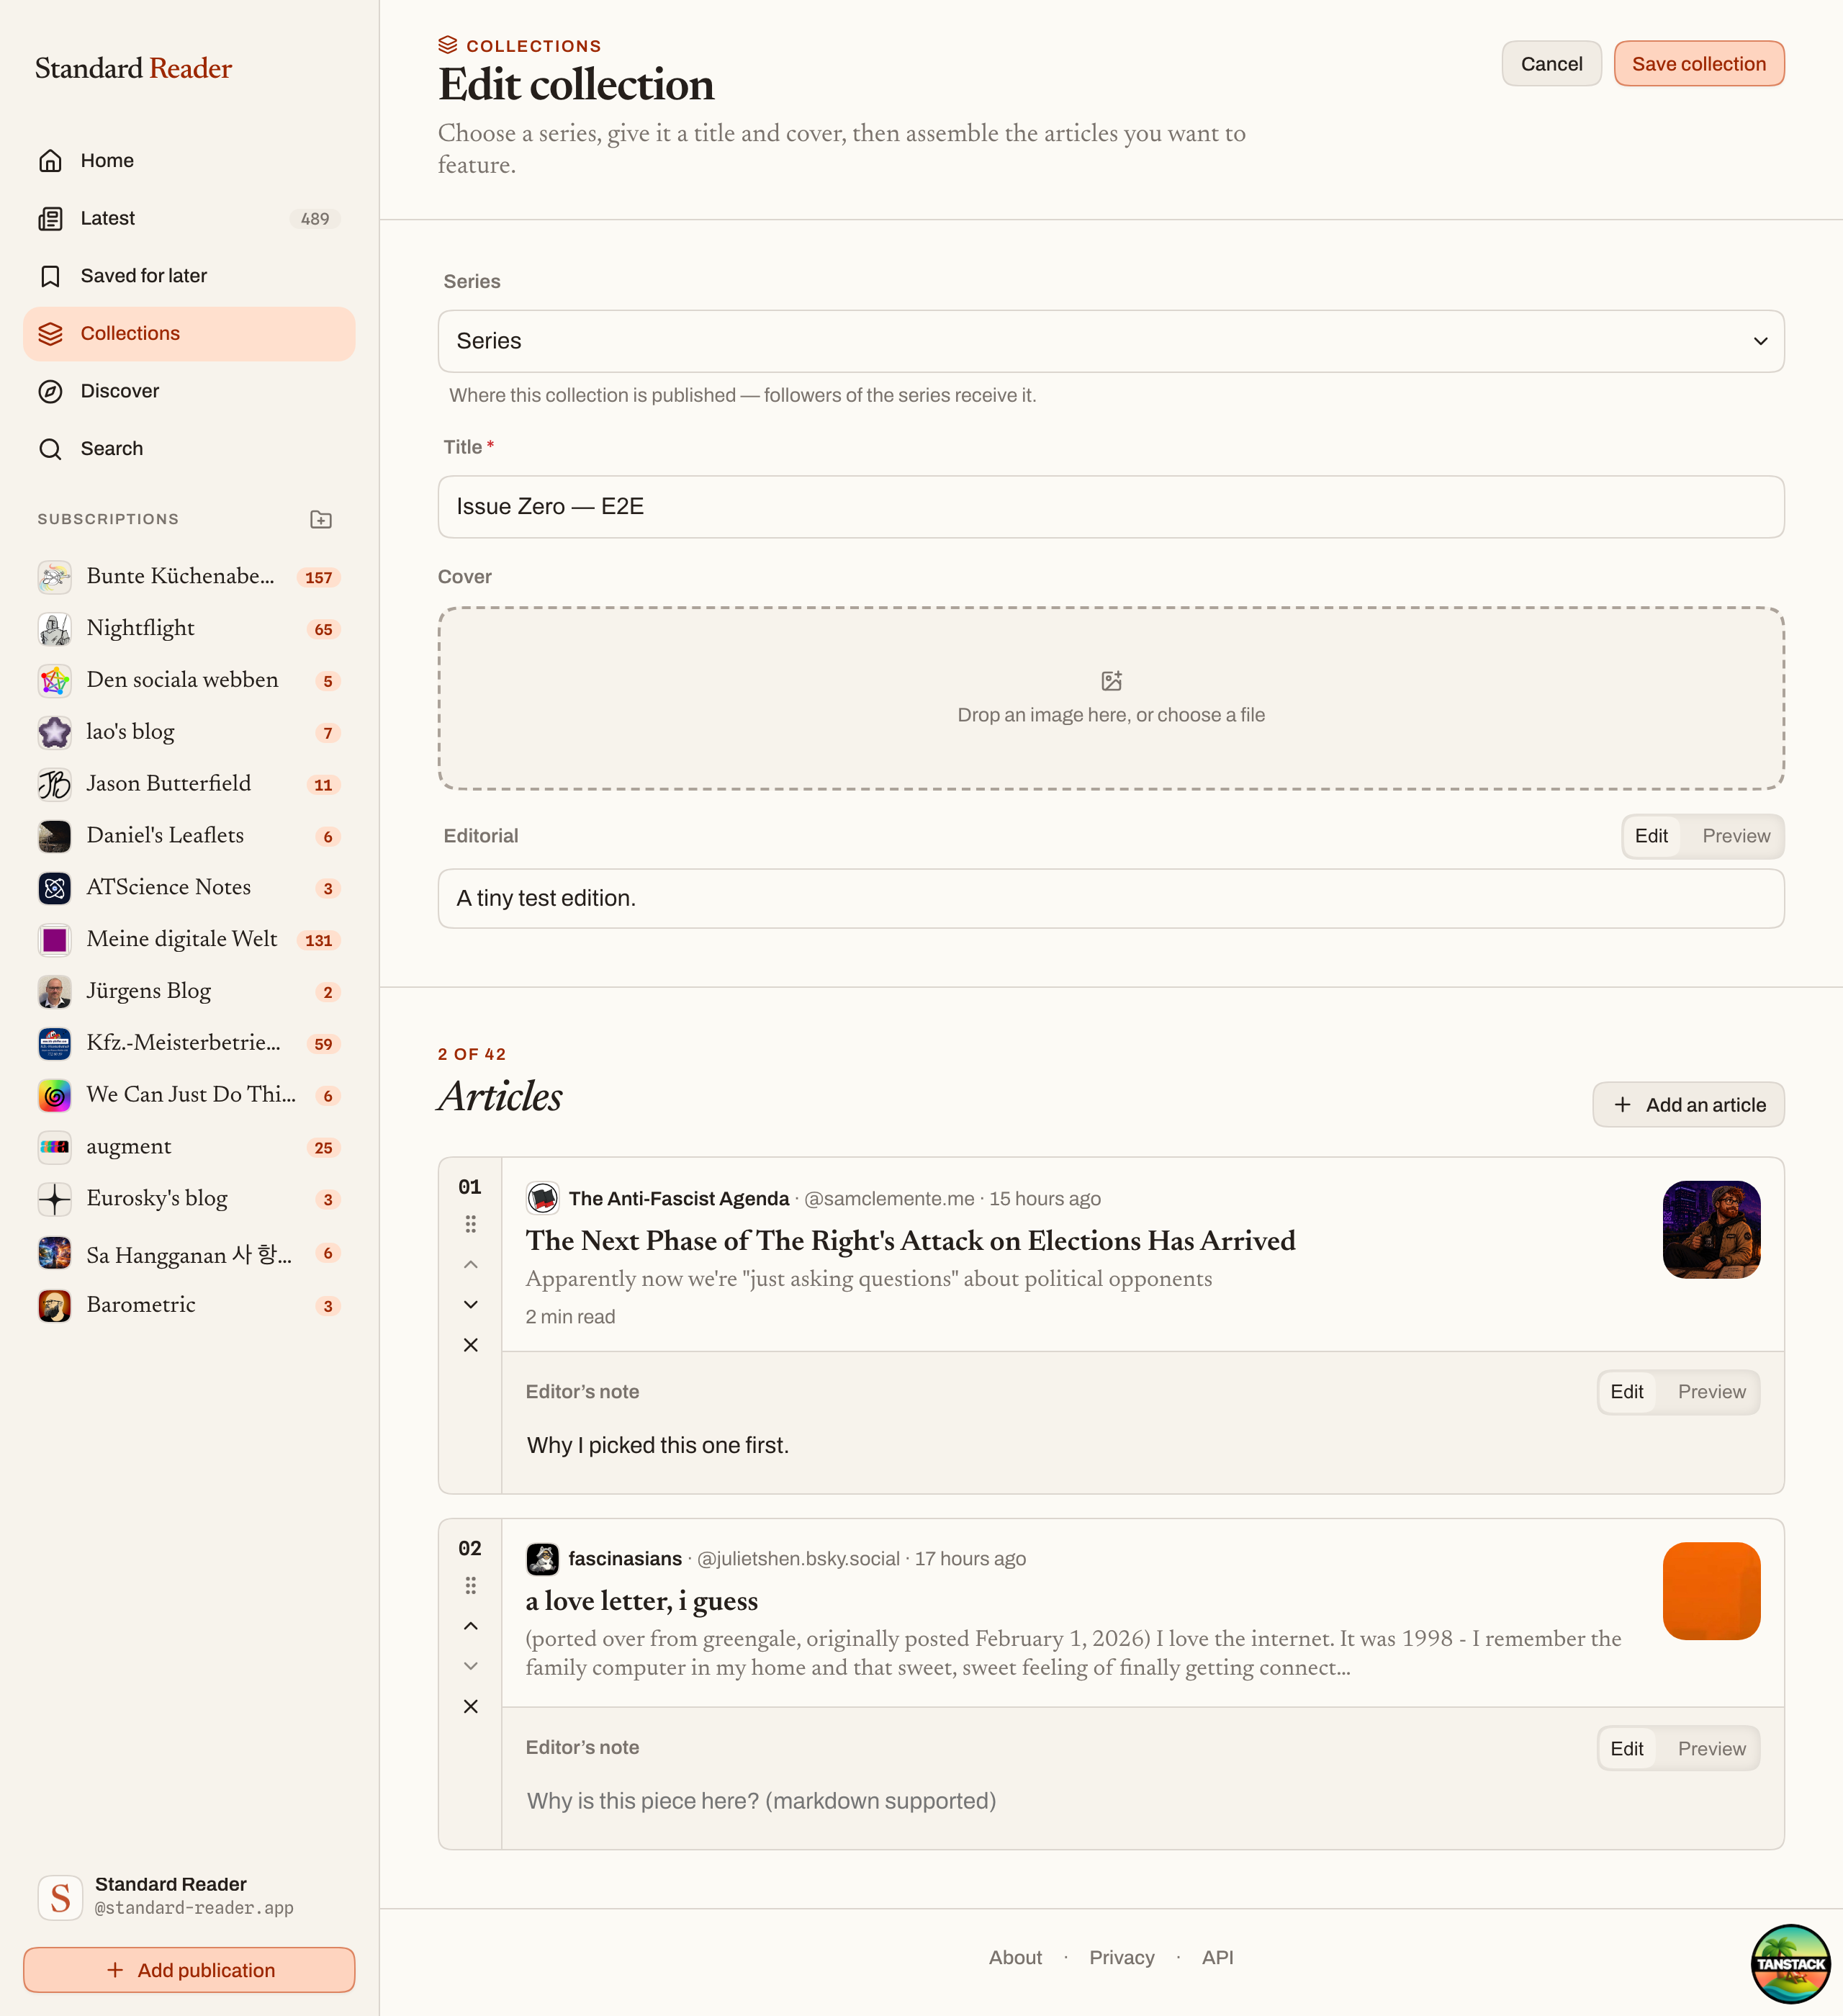
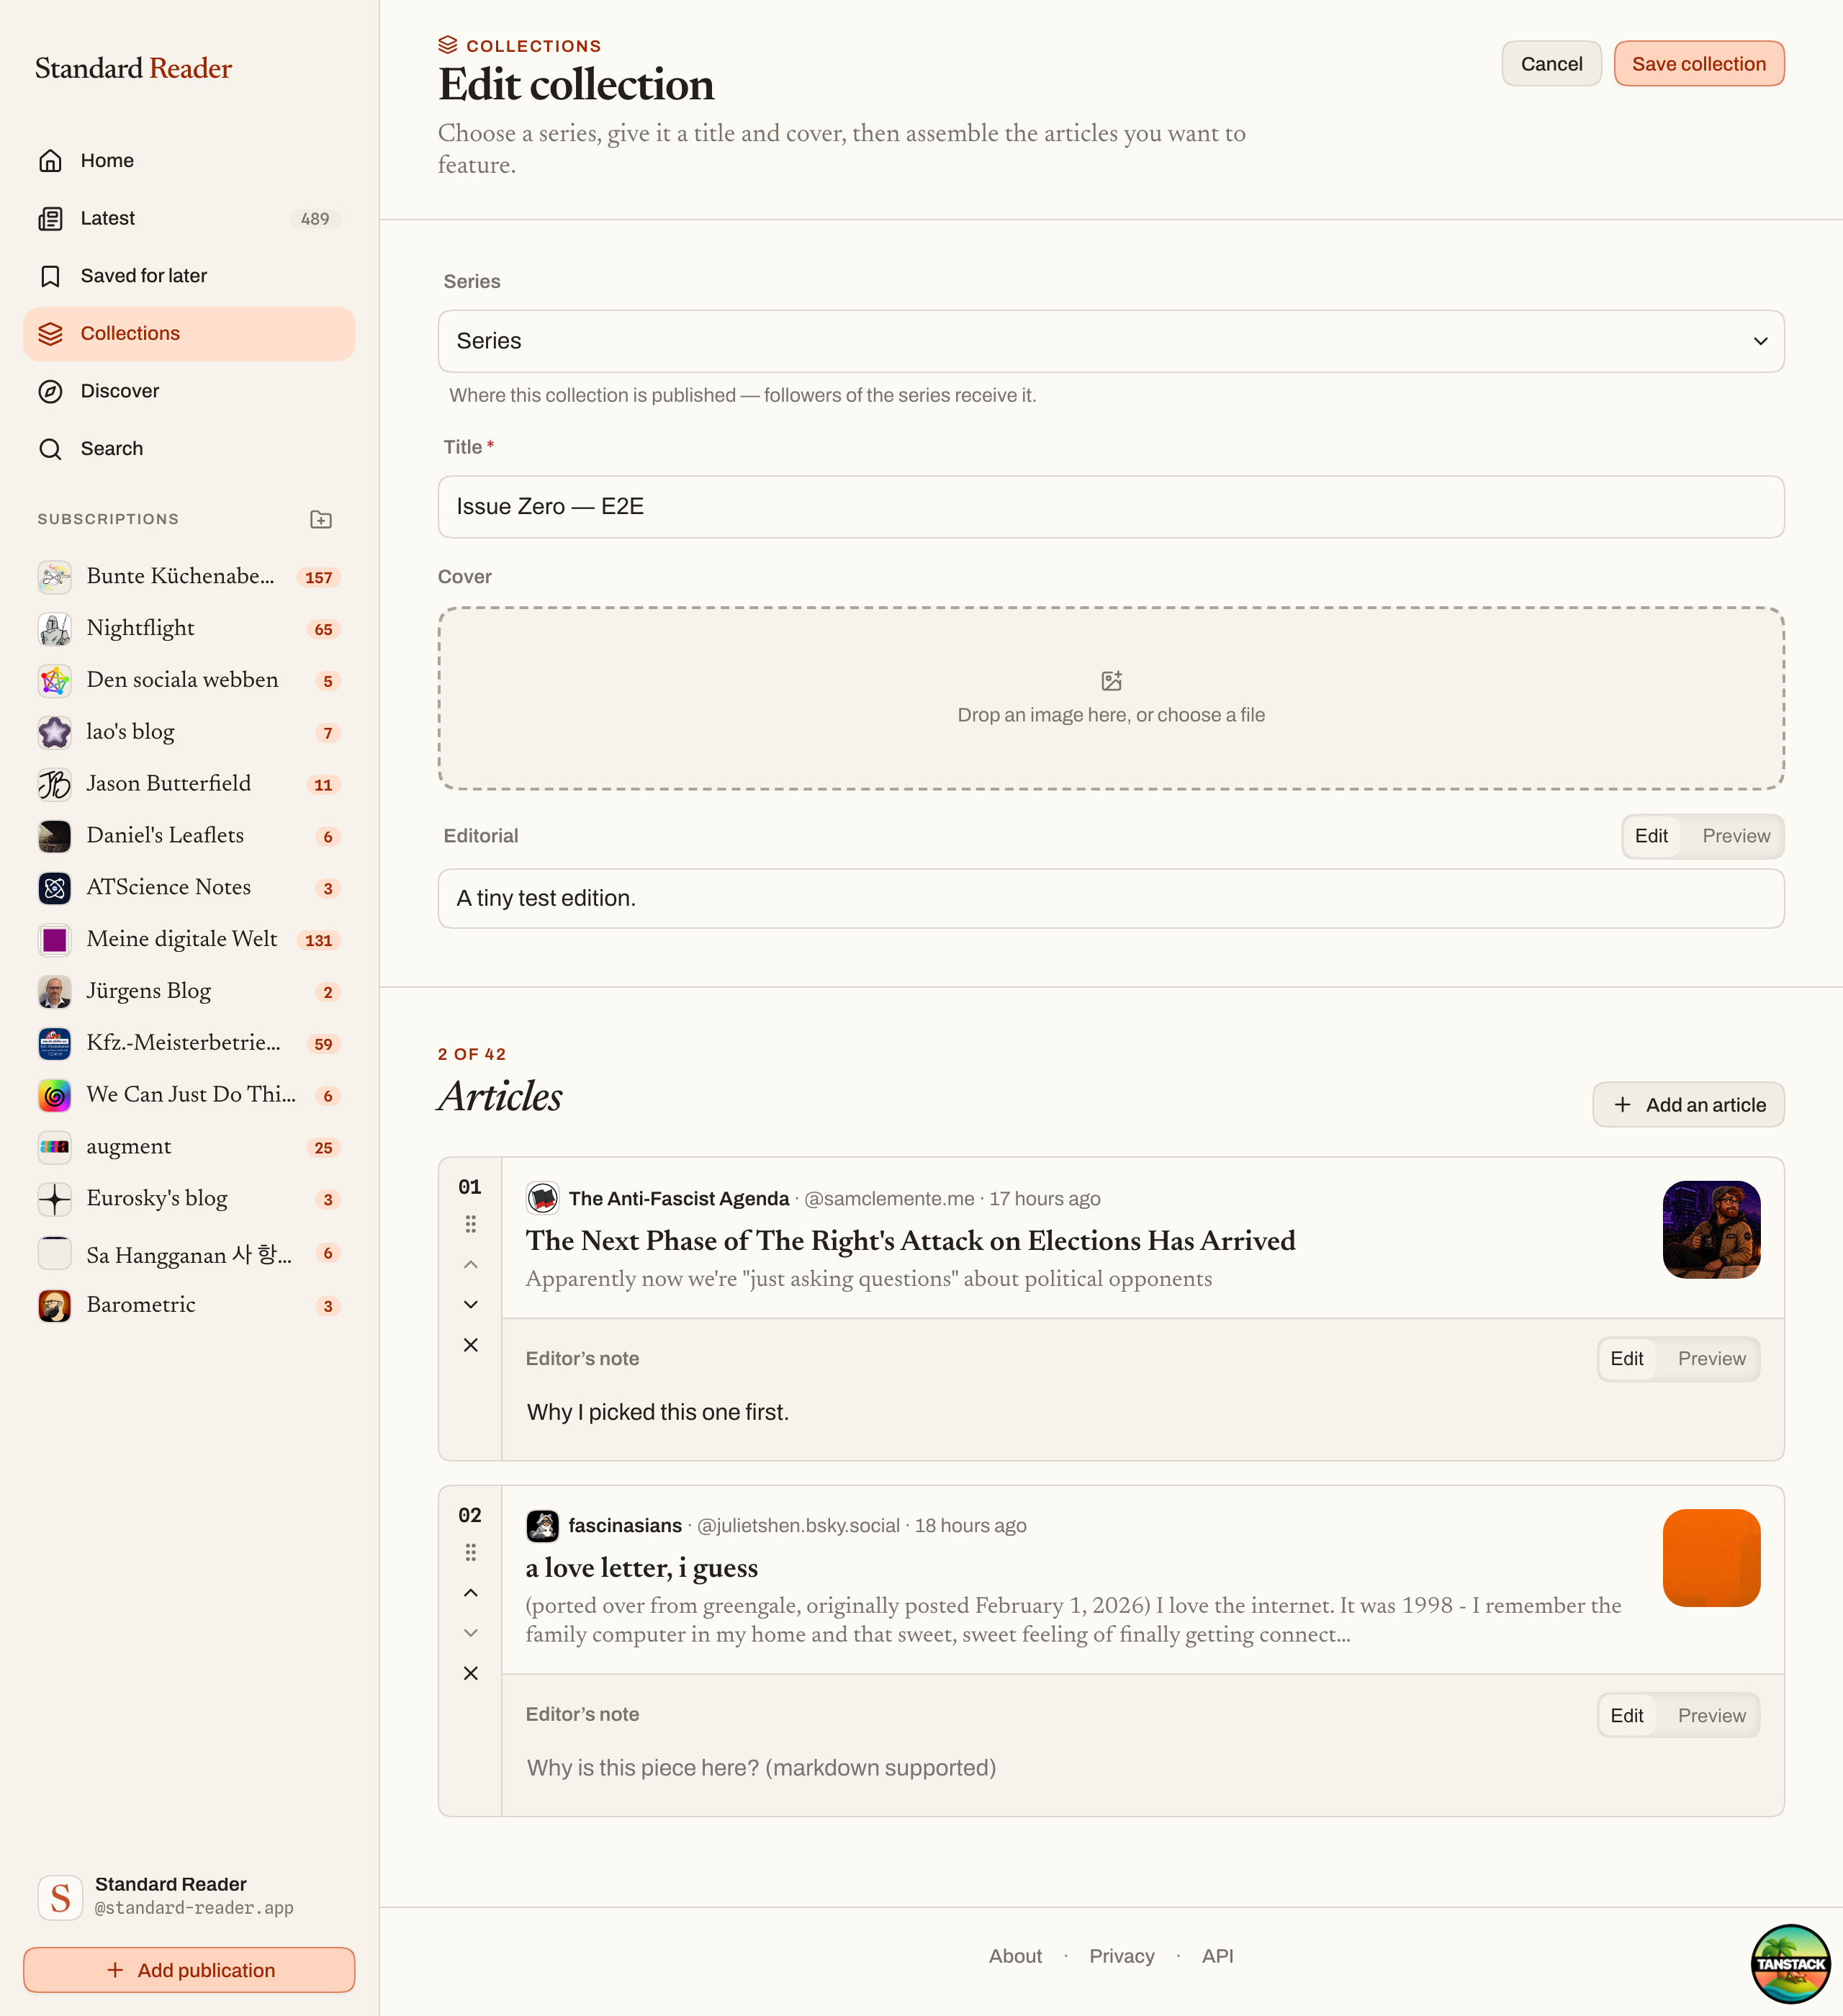
perf improvements

diff --git a/perf/lib/targets.ts b/perf/lib/targets.ts
@@ -140,7 +140,9 @@ function sharedTargets(auth: PerfAuthMode): Array<PerfTarget> {
 
 /** Signed-in-only routes (no guest counterpart). */
 function signedInOnlyTargets(): Array<PerfTarget> {
-  return [
+  const fixtures = loadPerfFixtures();
+
+  const targets = [
     perfTarget({
       id: "saved",
       name: "Saved for later",
@@ -162,7 +164,29 @@ function signedInOnlyTargets(): Array<PerfTarget> {
       auth: "signed-in",
       budgetMs: 5000,
     }),
+    perfTarget({
+      id: "collections",
+      name: "Collections",
+      path: "/collections",
+      auth: "signed-in",
+      budgetMs: 5000,
+    }),
   ];
+
+  if (fixtures.collectionEditPath) {
+    targets.push(
+      perfTarget({
+        id: "collections.edit",
+        name: "Collection editor",
+        path: fixtures.collectionEditPath,
+        auth: "signed-in",
+        budgetMs: 5000,
+        required: false,
+      }),
+    );
+  }
+
+  return targets;
 }
 
 /** Guest-visible routes — always run in CI. */

diff --git a/src/server/reader/queries.ts b/src/server/reader/queries.ts
@@ -22,6 +22,7 @@ import type { SQL } from "drizzle-orm";
 
 import {
   articleCardColumns,
+  articleQueueCardColumns,
   documentIsCollectionColumn,
   publicationCardColumns,
   publicationSortNameSql,
@@ -1632,6 +1633,13 @@ export async function selectArticleCardsByUris(
   db: Db,
   schema: Schema,
   uris: Array<string>,
+  /**
+   * When `lite`, omit the document body (`textContent`) from the projection.
+   * Callers that only need card metadata (collection editor + newsletter
+   * compose) avoid pulling full essay bodies into the payload + SSR dehydration.
+   * Reading-time labels go blank for these rows, which those surfaces don't show.
+   */
+  opts?: { lite?: boolean },
 ): Promise<Array<ArticleCard>> {
   if (uris.length === 0) {
     return [];
@@ -1641,7 +1649,9 @@ export async function selectArticleCardsByUris(
   const p = schema.publications;
   const pr = schema.profiles;
   const rows = await db
-    .select(articleCardColumns(schema))
+    .select(
+      opts?.lite ? articleQueueCardColumns(schema) : articleCardColumns(schema),
+    )
     .from(d)
     .leftJoin(p, eq(p.uri, d.publicationUri))
     .leftJoin(pr, eq(pr.did, p.did))

diff --git a/src/components/reader/collection-builder.tsx b/src/components/reader/collection-builder.tsx
@@ -64,6 +64,7 @@ import { MarkdownField } from "./markdown-field";
 import { Kicker, SectionHead } from "./primitives";
 
 const COLLECTIONS_QUERY_KEY = ["reader", "collections"] as const;
+const COLLECTION_EDIT_QUERY_KEY = ["reader", "collectionEdit"] as const;
 const MAX_ITEMS = 42;
 
 /** Centered, max-width inner container shared by the header and each band. */
@@ -724,8 +725,14 @@ export function CollectionBuilder({
       },
       {
         onSuccess: onSaved,
-        onSettled: () =>
-          queryClient.invalidateQueries({ queryKey: COLLECTIONS_QUERY_KEY }),
+        onSettled: () => {
+          void queryClient.invalidateQueries({ queryKey: COLLECTIONS_QUERY_KEY });
+          // The editor query now has a non-zero staleTime, so re-entering the
+          // builder after a save must drop the cached snapshot for this rkey.
+          void queryClient.invalidateQueries({
+            queryKey: COLLECTION_EDIT_QUERY_KEY,
+          });
+        },
       },
     );
   };

diff --git a/src/integrations/tanstack-query/api-user.functions.ts b/src/integrations/tanstack-query/api-user.functions.ts
@@ -7,7 +7,6 @@ import { createServerFn } from "@tanstack/react-start";
 import { getCookie, getRequest, setCookie } from "@tanstack/react-start/server";
 import { revokeAtprotoSession } from "#/integrations/auth/atproto";
 import { AUTH_SESSION_TOKEN_COOKIE } from "#/integrations/auth/constants";
-import { fetchBlueskyPublicProfileFields } from "#/lib/bluesky-public-profile";
 import {
   HOME_SCOPE_COOKIE,
   HOME_SCOPE_COOKIE_MAX_AGE_SECONDS,
@@ -122,21 +121,23 @@ async function loadSessionFromToken(sessionToken: string) {
 
   const { restoreAuthenticatedClient } =
     await import("#/integrations/auth/restore-client.server");
-  const [client, profileRow, publicProfile, identity] = await Promise.all([
+  const [client, profileRow, identity] = await Promise.all([
     restoreAuthenticatedClient(userRow.did),
     db.query.profiles.findFirst({
       where: eq(schema.profiles.did, userRow.did),
       columns: { handle: true },
     }),
-    fetchBlueskyPublicProfileFields(userRow.did),
     resolveIdentity(userRow.did),
   ]);
   if (!client) {
     return null;
   }
 
-  const handle =
-    profileRow?.handle ?? publicProfile?.handle ?? identity.handle ?? null;
+  // Handle comes from our indexed profile, falling back to the (cached) PLC
+  // identity. The Bluesky AppView profile call that used to seed this was
+  // redundant here — its display name/avatar are only needed at login — and an
+  // uncached round-trip to public.api.bsky.app on every session restore.
+  const handle = profileRow?.handle ?? identity.handle ?? null;
 
   return {
     user: {

diff --git a/perf/lib/fixtures.ts b/perf/lib/fixtures.ts
@@ -4,6 +4,7 @@ import { parseAtUri } from "../../src/server/atproto/uri.ts";
 export interface PerfFixtures {
   articlePath: string | null;
   publicationPath: string | null;
+  collectionEditPath: string | null;
   tag: string;
   searchQuery: string;
 }
@@ -43,9 +44,17 @@ export function loadPerfFixtures(): PerfFixtures {
       ? `/a/${encodeURIComponent(process.env.PERF_TEST_ARTICLE_DID)}/${encodeURIComponent(process.env.PERF_TEST_ARTICLE_RKEY)}`
       : null);
 
+  const collectionRkey = process.env.PERF_TEST_COLLECTION_RKEY?.trim();
+  const collectionEditPath =
+    envPath("PERF_TEST_COLLECTION_EDIT_PATH") ??
+    (collectionRkey
+      ? `/collections/edit/${encodeURIComponent(collectionRkey)}`
+      : null);
+
   return {
     articlePath: resolvedArticle,
     publicationPath,
+    collectionEditPath,
     tag: process.env.PERF_TEST_TAG?.trim() || "observability",
     searchQuery: process.env.PERF_TEST_SEARCH_QUERY?.trim() || "reader",
   };

diff --git a/src/integrations/tanstack-query/api-collections.functions.ts b/src/integrations/tanstack-query/api-collections.functions.ts
@@ -560,6 +560,7 @@ const getCollectionForEdit = createServerFn({ method: "GET" })
         db,
         schema,
         manifest.items.map((item) => item.document),
+        { lite: true },
       );
       const cardByUri = new Map(cards.map((card) => [card.uri, card]));
 
@@ -606,6 +607,7 @@ const putCollection = createServerFn({ method: "POST" })
         db,
         schema,
         data.items.map((item) => item.document),
+        { lite: true },
       );
       const cardByUri = new Map(cards.map((card) => [card.uri, card]));
 
@@ -779,6 +781,7 @@ function getMyCollectionsQueryOptions() {
   return queryOptions({
     queryKey: ["reader", "collections"] as const,
     queryFn: async () => getMyCollections(),
+    staleTime: 5 * 60_000,
   });
 }
 
@@ -786,7 +789,7 @@ function getCollectionForEditQueryOptions(rkey: string) {
   return queryOptions({
     queryKey: ["reader", "collectionEdit", rkey] as const,
     queryFn: async () => getCollectionForEdit({ data: { rkey } }),
-    staleTime: 0,
+    staleTime: 5 * 60_000,
   });
 }
 